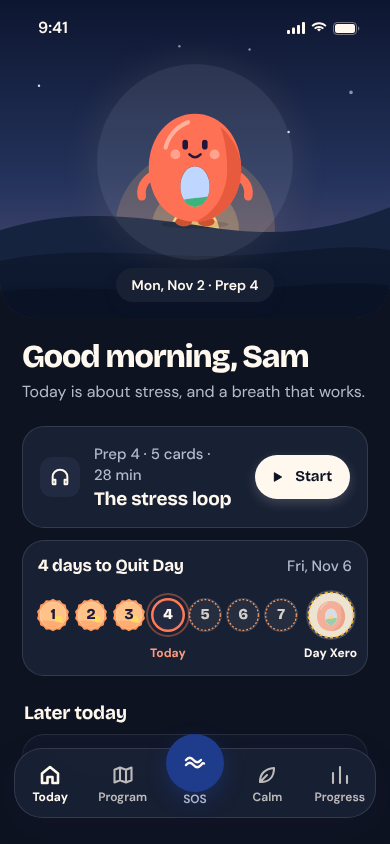
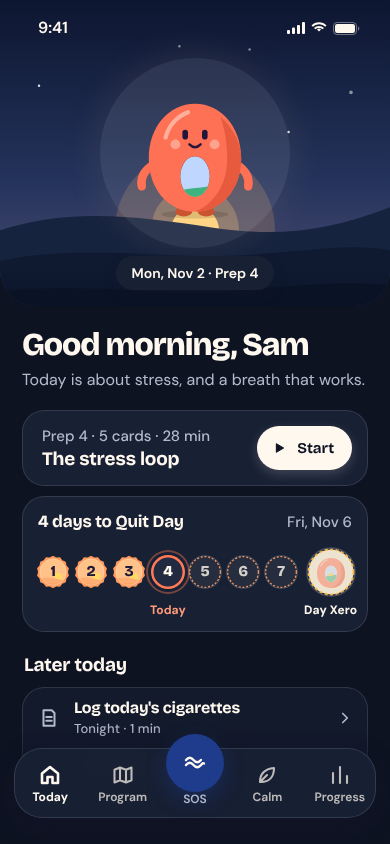
Cook: rounds 6-7 in progress
Claude-Session: https://claude.ai/code/session_01DZ7ApmrncqosUtJWfkxY6v

diff --git a/cook/site/screens/015-today-prep.html b/cook/site/screens/015-today-prep.html
@@ -5,27 +5,27 @@
 <script src="../kit/chars.js"></script><script src="../kit/kit.js"></script>
 <style>
   .tabbar a { color: color-mix(in srgb, var(--fg) 72%, transparent); }
-  .tabfade { height: 124px; }
-  .hero { position: absolute; left: 0; right: 0; top: 0; height: 318px; border-radius: 0 0 36px 36px; overflow: hidden; }
+  .tabfade { height: 118px; }
+  .hero { position: absolute; left: 0; right: 0; top: 0; height: 306px; border-radius: 0 0 36px 36px; overflow: hidden; }
   .hero .scene { position: absolute; inset: 0; }
   /* one soft cream disc behind Xero: no outer ring, so it never reads as a target */
-  .ringwrap { position: absolute; left: 50%; top: 64px; width: 196px; height: 196px; margin-left: -98px; }
+  .ringwrap { position: absolute; left: 50%; top: 58px; width: 190px; height: 190px; margin-left: -95px; }
   .ringwrap .disc { position: absolute; inset: 0; border-radius: 50%; background: rgba(255,248,238,.72); box-shadow: 0 0 34px rgba(255,248,238,.4); }
   [data-theme="dark"] .ringwrap .disc { background: rgba(255,248,238,.1); box-shadow: 0 0 40px rgba(255,195,138,.10); }
-  .ringwrap .ch { position: absolute; left: 0; right: 0; top: 26px; display: grid; place-items: center; }
-  .pill { position: absolute; left: 0; right: 0; top: 268px; display: flex; justify-content: center; }
+  .ringwrap .ch { position: absolute; left: 0; right: 0; top: 22px; display: grid; place-items: center; }
+  .pill { position: absolute; left: 0; right: 0; top: 256px; display: flex; justify-content: center; }
   .pill span { background: var(--card); color: var(--fg); border-radius: 99px; padding: 10px 16px; font: 600 14px/1 var(--body); box-shadow: 0 6px 16px rgba(30,26,58,.12); }
 
-  .content { position: absolute; left: 0; right: 0; top: 340px; padding: 0 var(--gutter); }
+  .content { position: absolute; left: 0; right: 0; top: 328px; padding: 0 var(--gutter); }
   .content .sub { margin-top: 6px; color: var(--muted); }
-  .sess { margin-top: 22px; display: flex; align-items: center; gap: 14px; }
+  .sess { margin-top: 18px; display: flex; align-items: center; gap: 14px; padding: 16px 16px 16px 20px; }
   .sess .grow { flex: 1; min-width: 0; }
   .sess .t-foot { color: var(--muted); }
   .sess .btn.small { width: auto; padding: 0 18px 0 14px; flex: none; }
   .sess .btn svg { width: 16px; height: 16px; }
 
   /* the one meter: the prep week as stamps, one colour code (apricot and coral) in both modes */
-  .stamps { margin-top: 12px; padding: 16px 14px 14px; }
+  .stamps { margin-top: 10px; padding: 16px 14px 14px; }
   .stamps .head { display: flex; justify-content: space-between; align-items: baseline; padding: 0 2px; }
   .stamps .head .t-foot { color: var(--muted); }
   .stamps .row8 { display: flex; justify-content: space-between; align-items: flex-start; margin-top: 14px; }
@@ -48,7 +48,7 @@
   .slot.goal .t-cap { font-weight: 700; }
 
   /* the next section peeks above the tab bar: one quiet list, like Today after Quit Day */
-  .grp { font: 700 19px/1.2 var(--display); letter-spacing: -.2px; margin: 26px 0 10px 2px; }
+  .grp { font: 700 19px/1.2 var(--display); letter-spacing: -.2px; margin: 22px 0 10px 2px; }
   .later-list { border-radius: 22px; background: color-mix(in srgb, var(--card) 60%, transparent); box-shadow: inset 0 0 0 1px var(--line); overflow: hidden; }
   .lrow { display: flex; align-items: center; gap: 14px; min-height: 62px; padding: 10px 14px 10px 16px; }
   .lrow .grow { flex: 1; min-width: 0; }
@@ -73,7 +73,6 @@
     <p class="t-body sub" data-a style="--i:3">Today is about stress, and a breath that works.</p>
 
     <div class="card sess" data-a style="--i:4">
-      <span class="ico-tile" id="ic-sess"></span>
       <div class="grow">
         <p class="t-foot">Prep 4 &middot; 5 cards &middot; 28 min</p>
         <p class="t-head">The stress loop</p>
@@ -97,7 +96,6 @@
   const $ = s => document.querySelector(s);
   $('#scene').innerHTML = DX.char('horizon', { scene: 'dawn', w: 390, h: 330, clarity: 85 });
   $('#xero').innerHTML = DX.char('xero', { mood: 'hello', size: 140, stage: 1 });
-  $('#ic-sess').innerHTML = DX.icon('headphones');
   $('#start').innerHTML = DX.icon('play', { fill: 'currentColor', w: 1.5 }) + 'Start';
   let h = '';
   const face = (svg, n) => `<div class="face">${svg}<span class="num">${n}</span></div>`;
